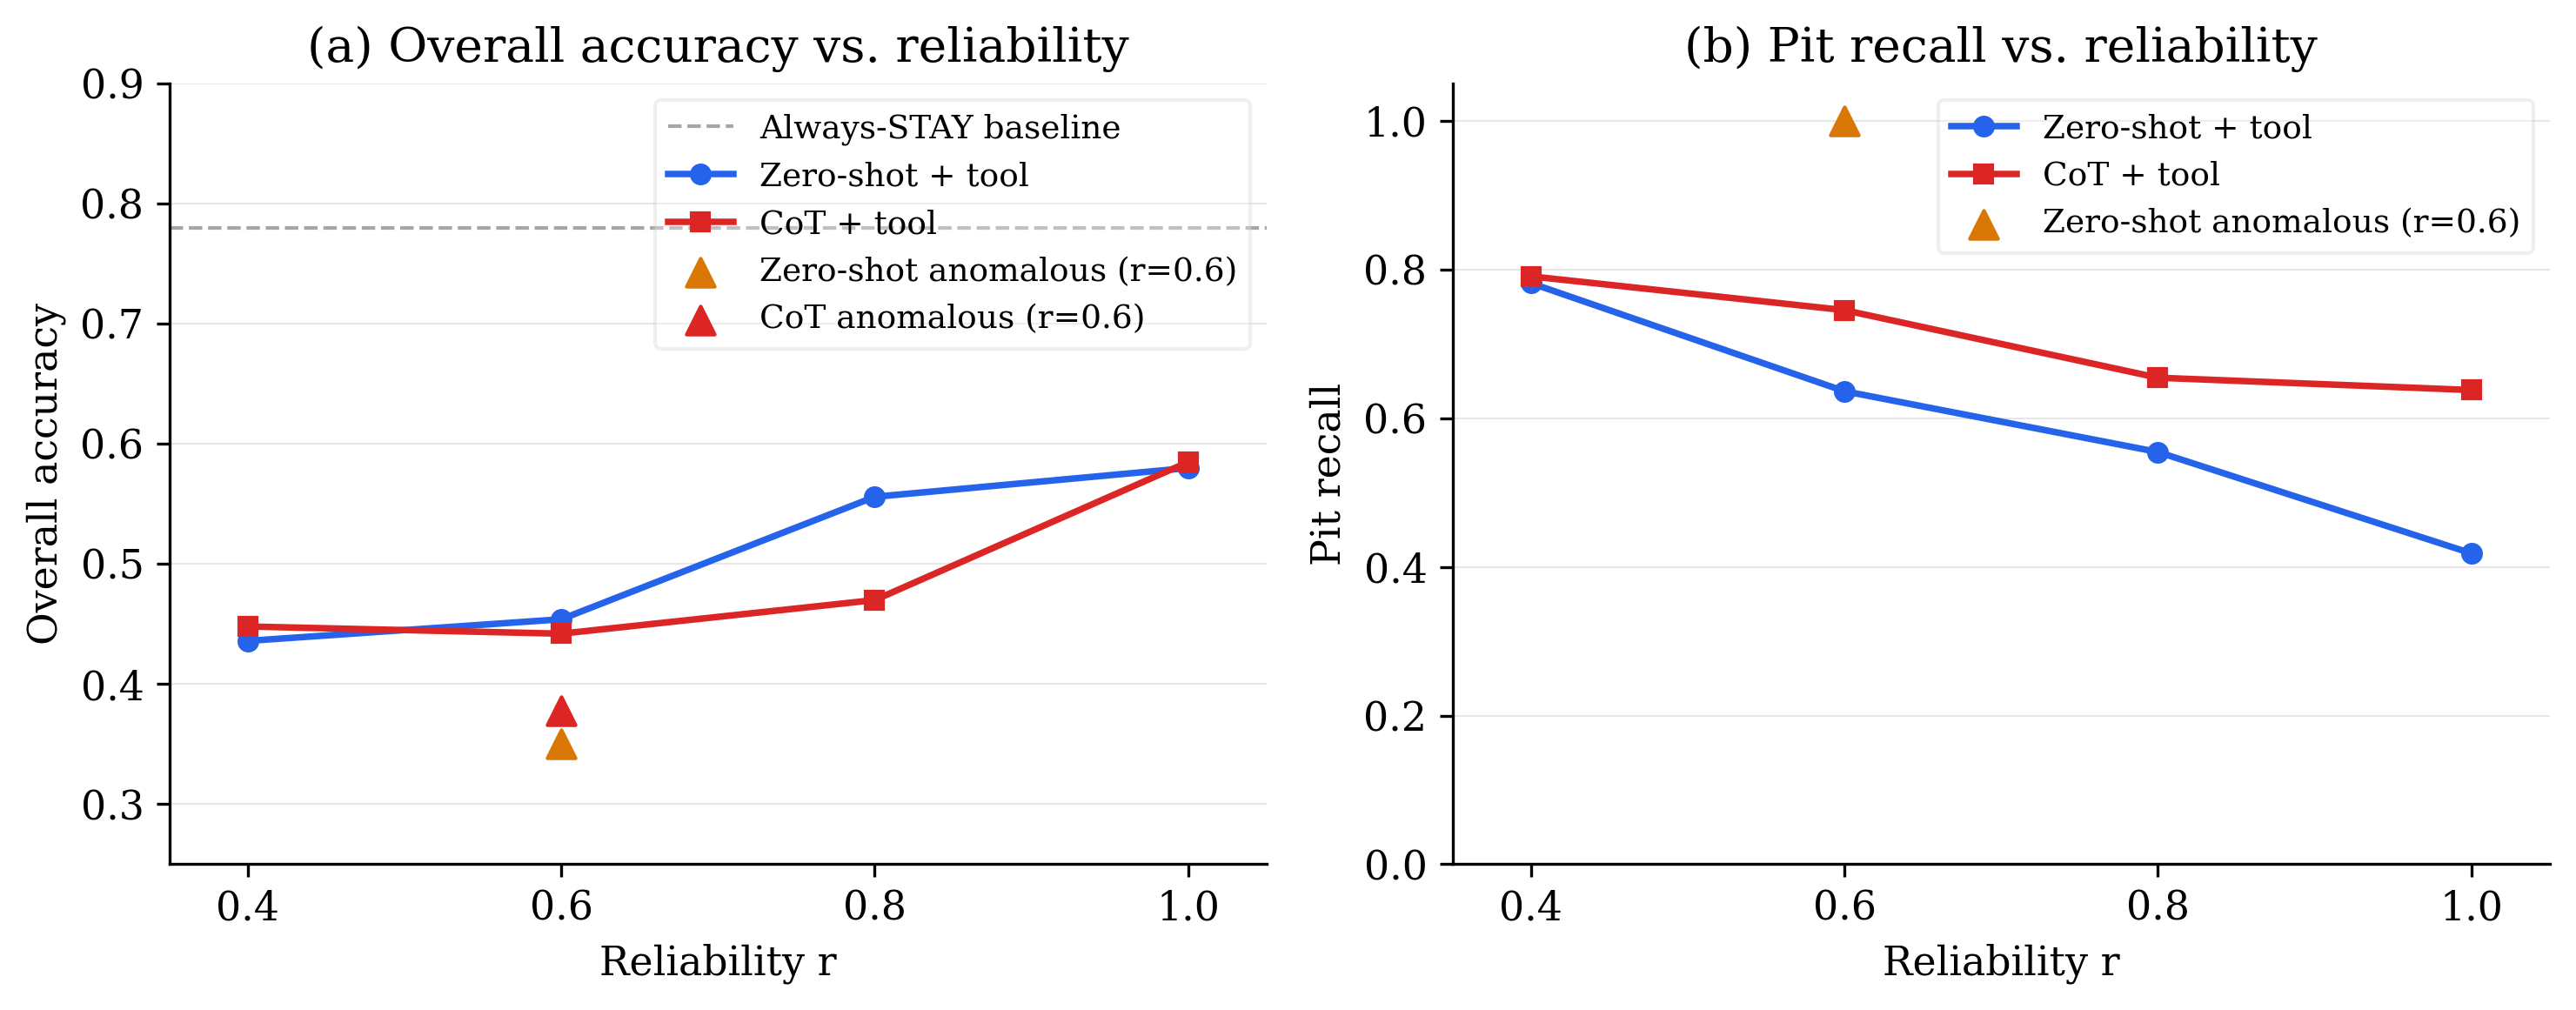
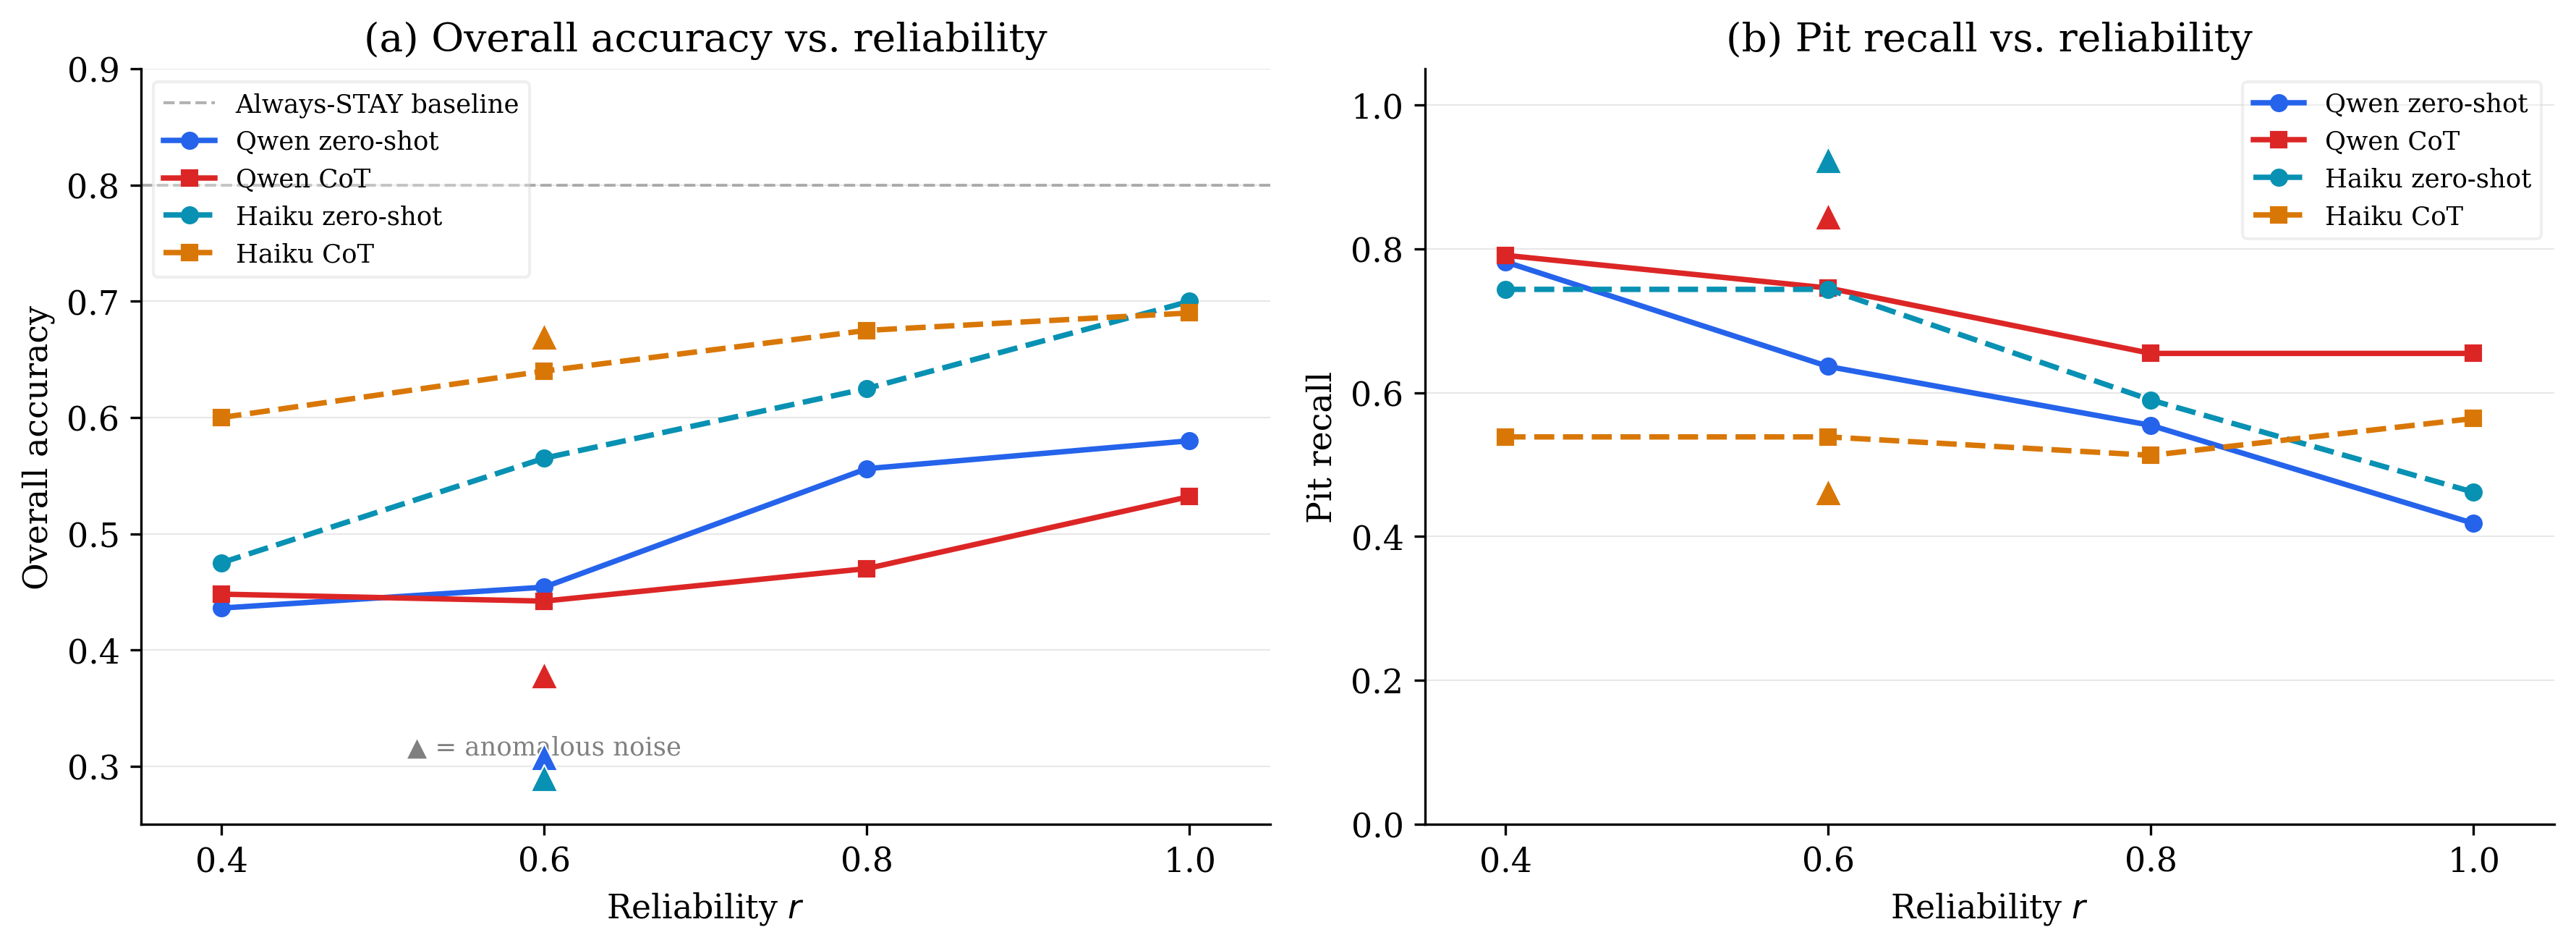
complete experiments: all results, ablation, faithfulness, haiku eval

diff --git a/paper/plot_results.py b/paper/plot_results.py
@@ -2,6 +2,7 @@ import json
 import matplotlib.pyplot as plt
 import matplotlib.patches as mpatches
 import numpy as np
+from pathlib import Path
 
 plt.rcParams.update({
     'font.family': 'serif',
@@ -14,97 +15,233 @@ plt.rcParams.update({
 
 r_levels = [0.4, 0.6, 0.8, 1.0]
 
-# Load results
+# ── Data loading ──────────────────────────────────────────────
+
 def load(path):
     with open(path) as f:
         rows = [json.loads(l) for l in f]
     acc = sum(r['correct'] for r in rows) / len(rows)
     pit = [r for r in rows if r['label'] == 1]
     stay = [r for r in rows if r['label'] == 0]
-    pit_acc = sum(r['correct'] for r in pit) / len(pit) if pit else 0
+    pred_pit = [r for r in rows if r['pred'] == 1]
+    precision = sum(r['correct'] for r in pred_pit) / len(pred_pit) if pred_pit else 0
+    recall = sum(r['correct'] for r in pit) / len(pit) if pit else 0
+    f1 = 2 * precision * recall / (precision + recall) if (precision + recall) > 0 else 0
     stay_acc = sum(r['correct'] for r in stay) / len(stay) if stay else 0
-    return {'overall': acc, 'pit': pit_acc, 'stay': stay_acc, 'n': len(rows)}
+    return {'overall': acc, 'pit': recall, 'stay': stay_acc, 'f1': f1,
+            'precision': precision, 'n': len(rows)}
 
-zeroshot = {
-    1.0: load('results/zeroshot_plausible_r1.0.jsonl'),
-    0.8: load('results/zeroshot_plausible_r0.8.jsonl'),
-    0.6: load('results/zeroshot_plausible_r0.6.jsonl'),
-    0.4: load('results/zeroshot_plausible_r0.4.jsonl'),
+def load_safe(path):
+    try:
+        return load(path)
+    except:
+        return None
+
+# Qwen results
+qwen_zs = {r: load_safe(f'results/zeroshot_plausible_r{r}.jsonl') for r in r_levels}
+qwen_cot = {r: load_safe(f'results/cot_plausible_r{r}.jsonl') for r in r_levels}
+qwen_zs_anom = load_safe('results/zeroshot_anomalous_r0.6.jsonl')
+qwen_cot_anom = load_safe('results/cot_anomalous_r0.6.jsonl')
+
+# Haiku results
+haiku_zs = {r: load_safe(f'results/haiku_zero_shot_plausible_r{r}.jsonl') for r in r_levels}
+haiku_cot = {r: load_safe(f'results/haiku_cot_plausible_r{r}.jsonl') for r in r_levels}
+haiku_zs_anom = load_safe('results/haiku_zeroshot_anomalous_r0.6.jsonl')
+haiku_cot_anom = load_safe('results/haiku_cot_anomalous_r0.6.jsonl')
+
+# Faithfulness
+faithfulness_qwen = {1.0: 0.608, 0.8: 0.511, 0.6: 0.414, 0.4: 0.305}
+
+# Ablation (zero-shot F1 at r=0.6, corrupting one field at a time)
+ablation_fields = ['tyre_age', 'compound', 'position', 'gap_to_leader',
+                   'deg_rate', 'rainfall', 'pit_window']
+ablation_labels = ['Tyre Age', 'Compound', 'Position', 'Gap to\nLeader',
+                   'Deg Rate', 'Rainfall', 'Pit Window\n(tool)']
+
+def load_ablation(field, mode):
+    path = f'results/ablation_{field}_{mode}.jsonl'
+    r = load_safe(path)
+    return r['overall'] if r else None
+
+# ── Figure 1: Degradation curves (2x2) ───────────────────────
+
+fig, axes = plt.subplots(1, 2, figsize=(12, 4.5))
+
+colors = {
+    'qwen_zs':   '#2563EB',   # blue
+    'qwen_cot':  '#DC2626',   # red
+    'haiku_zs':  '#0891B2',   # cyan
+    'haiku_cot': '#D97706',   # amber
 }
 
-# CoT — fill in as results arrive
-cot = {
-    1.0: load('results/cot_r1.0.jsonl'),
-    0.8: load('results/cot_plausible_r0.8.jsonl'),
-    0.6: load('results/cot_plausible_r0.6.jsonl'),
-    0.4: load('results/cot_plausible_r0.4.jsonl'),
-}
-cot_anomalous_r06 = load('results/cot_anomalous_r0.6.jsonl')
-anomalous_r06 = load('results/zeroshot_anomalous_test.jsonl')
-
-fig, axes = plt.subplots(1, 2, figsize=(10, 4))
-
-# ── Plot 1: Overall accuracy ──────────────────────────────────
+# ── Left: Overall accuracy ────────────────────────────────────
 ax = axes[0]
-ax.axhline(0.78, color='gray', linestyle='--', linewidth=1, label='Always-STAY baseline', alpha=0.7)
+ax.axhline(0.80, color='gray', linestyle='--', linewidth=1,
+           label='Always-STAY baseline', alpha=0.6)
 
-zs_overall = [zeroshot[r]['overall'] for r in r_levels]
-ax.plot(r_levels, zs_overall, 'o-', color='#2563EB', linewidth=1.8,
-        markersize=5, label='Zero-shot + tool')
+def plot_line(ax, data, r_levels, color, marker, label, linestyle='-'):
+    vals = [data[r]['overall'] if data[r] else None for r in r_levels]
+    valid_r = [r for r, v in zip(r_levels, vals) if v is not None]
+    valid_v = [v for v in vals if v is not None]
+    ax.plot(valid_r, valid_v, marker=marker, color=color, linewidth=1.8,
+            markersize=5, label=label, linestyle=linestyle)
 
-if len(cot) >= 4:
-    cot_overall = [cot[r]['overall'] for r in r_levels]
-    ax.plot(r_levels, cot_overall, 's-', color='#DC2626', linewidth=1.8,
-            markersize=5, label='CoT + tool')
-else:
-    # plot what we have
-    cot_r = sorted(cot.keys())
-    ax.plot(cot_r, [cot[r]['overall'] for r in cot_r], 's--', color='#DC2626',
-            linewidth=1.5, markersize=5, label='CoT + tool (partial)', alpha=0.6)
+plot_line(ax, qwen_zs,   r_levels, colors['qwen_zs'],   'o', 'Qwen zero-shot')
+plot_line(ax, qwen_cot,  r_levels, colors['qwen_cot'],  's', 'Qwen CoT')
+plot_line(ax, haiku_zs,  r_levels, colors['haiku_zs'],  'o', 'Haiku zero-shot', '--')
+plot_line(ax, haiku_cot, r_levels, colors['haiku_cot'], 's', 'Haiku CoT', '--')
 
-ax.scatter([0.6], [anomalous_r06['overall']], marker='^', color='#D97706',
-           s=60, zorder=5, label='Zero-shot anomalous (r=0.6)')
-ax.scatter([0.6], [cot_anomalous_r06['overall']], marker='^', color='#DC2626',
-           s=60, zorder=5, label='CoT anomalous (r=0.6)')
+# Anomalous points
+if qwen_zs_anom:
+    ax.scatter([0.6], [qwen_zs_anom['overall']], marker='^', color=colors['qwen_zs'],
+               s=80, zorder=5, edgecolors='white', linewidth=0.5)
+if qwen_cot_anom:
+    ax.scatter([0.6], [qwen_cot_anom['overall']], marker='^', color=colors['qwen_cot'],
+               s=80, zorder=5, edgecolors='white', linewidth=0.5)
+if haiku_zs_anom:
+    ax.scatter([0.6], [haiku_zs_anom['overall']], marker='^', color=colors['haiku_zs'],
+               s=80, zorder=5, edgecolors='white', linewidth=0.5)
+if haiku_cot_anom:
+    ax.scatter([0.6], [haiku_cot_anom['overall']], marker='^', color=colors['haiku_cot'],
+               s=80, zorder=5, edgecolors='white', linewidth=0.5)
 
-ax.set_xlabel('Reliability r')
+# Annotation for anomalous
+ax.annotate('▲ = anomalous noise', xy=(0.6, 0.31), fontsize=8.5, color='gray',
+            ha='center')
+
+ax.set_xlabel('Reliability $r$')
 ax.set_ylabel('Overall accuracy')
 ax.set_title('(a) Overall accuracy vs. reliability')
 ax.set_xlim(0.35, 1.05)
 ax.set_ylim(0.25, 0.90)
 ax.set_xticks(r_levels)
-ax.legend(fontsize=9, framealpha=0.3)
+ax.legend(fontsize=8.5, framealpha=0.3, loc='upper left')
 ax.grid(axis='y', alpha=0.3, linewidth=0.5)
 
-# ── Plot 2: Pit recall ────────────────────────────────────────
+# ── Right: Pit recall ─────────────────────────────────────────
 ax = axes[1]
 
-zs_pit = [zeroshot[r]['pit'] for r in r_levels]
-ax.plot(r_levels, zs_pit, 'o-', color='#2563EB', linewidth=1.8,
-        markersize=5, label='Zero-shot + tool')
+def plot_line_pit(ax, data, r_levels, color, marker, label, linestyle='-'):
+    vals = [data[r]['pit'] if data[r] else None for r in r_levels]
+    valid_r = [r for r, v in zip(r_levels, vals) if v is not None]
+    valid_v = [v for v in vals if v is not None]
+    ax.plot(valid_r, valid_v, marker=marker, color=color, linewidth=1.8,
+            markersize=5, label=label, linestyle=linestyle)
 
-if len(cot) >= 4:
-    cot_pit = [cot[r]['pit'] for r in r_levels]
-    ax.plot(r_levels, cot_pit, 's-', color='#DC2626', linewidth=1.8,
-            markersize=5, label='CoT + tool')
-else:
-    cot_r = sorted(cot.keys())
-    ax.plot(cot_r, [cot[r]['pit'] for r in cot_r], 's--', color='#DC2626',
-            linewidth=1.5, markersize=5, label='CoT + tool (partial)', alpha=0.6)
+plot_line_pit(ax, qwen_zs,   r_levels, colors['qwen_zs'],   'o', 'Qwen zero-shot')
+plot_line_pit(ax, qwen_cot,  r_levels, colors['qwen_cot'],  's', 'Qwen CoT')
+plot_line_pit(ax, haiku_zs,  r_levels, colors['haiku_zs'],  'o', 'Haiku zero-shot', '--')
+plot_line_pit(ax, haiku_cot, r_levels, colors['haiku_cot'], 's', 'Haiku CoT', '--')
 
-ax.scatter([0.6], [anomalous_r06['pit']], marker='^', color='#D97706',
-           s=60, zorder=5, label='Zero-shot anomalous (r=0.6)')
+if qwen_zs_anom:
+    ax.scatter([0.6], [qwen_zs_anom['pit']], marker='^', color=colors['qwen_zs'],
+               s=80, zorder=5, edgecolors='white', linewidth=0.5)
+if qwen_cot_anom:
+    ax.scatter([0.6], [qwen_cot_anom['pit']], marker='^', color=colors['qwen_cot'],
+               s=80, zorder=5, edgecolors='white', linewidth=0.5)
+if haiku_zs_anom:
+    ax.scatter([0.6], [haiku_zs_anom['pit']], marker='^', color=colors['haiku_zs'],
+               s=80, zorder=5, edgecolors='white', linewidth=0.5)
+if haiku_cot_anom:
+    ax.scatter([0.6], [haiku_cot_anom['pit']], marker='^', color=colors['haiku_cot'],
+               s=80, zorder=5, edgecolors='white', linewidth=0.5)
 
-ax.set_xlabel('Reliability r')
+ax.set_xlabel('Reliability $r$')
 ax.set_ylabel('Pit recall')
 ax.set_title('(b) Pit recall vs. reliability')
 ax.set_xlim(0.35, 1.05)
 ax.set_ylim(0.0, 1.05)
 ax.set_xticks(r_levels)
-ax.legend(fontsize=9, framealpha=0.3)
+ax.legend(fontsize=8.5, framealpha=0.3, loc='upper right')
 ax.grid(axis='y', alpha=0.3, linewidth=0.5)
 
 plt.tight_layout()
 plt.savefig('paper/degradation_curves.pdf', bbox_inches='tight')
 plt.savefig('paper/degradation_curves.png', bbox_inches='tight', dpi=300)
-print("Saved paper/degradation_curves.pdf and .png")
+print("Saved degradation_curves.pdf/png")
+plt.close()
+
+# ── Figure 2: Faithfulness degradation ───────────────────────
+
+fig, ax = plt.subplots(figsize=(6, 4))
+
+faith_r = [0.4, 0.6, 0.8, 1.0]
+faith_vals = [faithfulness_qwen[r] for r in faith_r]
+
+ax.plot(faith_r, faith_vals, 'o-', color=colors['qwen_cot'], linewidth=1.8,
+        markersize=6, label='Qwen CoT faithfulness')
+ax.axhline(faith_vals[-1], color='gray', linestyle='--', linewidth=0.8, alpha=0.5)
+
+# Annotate specific values
+for r, v in zip(faith_r, faith_vals):
+    ax.annotate(f'{v:.2f}', (r, v), textcoords='offset points',
+                xytext=(0, 8), ha='center', fontsize=9)
+
+ax.set_xlabel('Reliability $r$')
+ax.set_ylabel('Faithfulness score')
+ax.set_title('CoT reasoning faithfulness vs. telemetry reliability')
+ax.set_xlim(0.35, 1.05)
+ax.set_ylim(0.0, 0.80)
+ax.set_xticks(faith_r)
+ax.legend(fontsize=9, framealpha=0.3)
+ax.grid(axis='y', alpha=0.3, linewidth=0.5)
+
+plt.tight_layout()
+plt.savefig('paper/faithfulness_curve.pdf', bbox_inches='tight')
+plt.savefig('paper/faithfulness_curve.png', bbox_inches='tight', dpi=300)
+print("Saved faithfulness_curve.pdf/png")
+plt.close()
+
+# ── Figure 3: Ablation bar chart ─────────────────────────────
+
+fig, axes = plt.subplots(1, 2, figsize=(12, 4.5))
+baseline_zs_overall = 0.454
+baseline_cot_overall = 0.442
+
+zs_vals = [load_ablation(f, 'zero_shot') for f in ablation_fields]
+cot_vals = [load_ablation(f, 'cot') for f in ablation_fields]
+
+x = np.arange(len(ablation_fields))
+width = 0.35
+
+for ax_idx, (ax, vals, baseline, title, color) in enumerate(zip(
+    axes,
+    [zs_vals, cot_vals],
+    [baseline_zs_overall, baseline_cot_overall],
+    ['(a) Zero-shot: accuracy when corrupting one field', '(b) CoT: accuracy when corrupting one field'],
+    [colors['qwen_zs'], colors['qwen_cot']]
+)):
+    plot_vals = [v if v is not None else 0 for v in vals]
+    bars = ax.bar(x, plot_vals, width=0.5, color=color, alpha=0.75, label='Single-field corruption')
+    ax.axhline(baseline, color='gray', linestyle='--', linewidth=1.2,
+               label=f'All-fields baseline ({baseline:.3f})')
+
+    # Color bars that are below baseline red
+    for bar, val in zip(bars, vals):
+        if val is not None and val < baseline:
+            bar.set_color('#DC2626')
+            bar.set_alpha(0.85)
+
+    ax.set_xticks(x)
+    ax.set_xticklabels(ablation_labels, fontsize=9)
+    ax.set_ylabel('Overall accuracy')
+    ax.set_title(title, fontsize=10)
+    ax.set_ylim(0.35, 0.65)
+    ax.legend(fontsize=9, framealpha=0.3)
+    ax.grid(axis='y', alpha=0.3, linewidth=0.5)
+
+    # Annotate values on bars
+    for bar, val in zip(bars, vals):
+        if val is not None and val > 0:
+            ax.text(bar.get_x() + bar.get_width()/2., bar.get_height() + 0.005,
+                    f'{val:.3f}', ha='center', va='bottom', fontsize=8)
+
+plt.suptitle('Per-field ablation: effect of corrupting individual telemetry fields (r=0.6)',
+             fontsize=11, y=1.02)
+plt.tight_layout()
+plt.savefig('paper/ablation_chart.pdf', bbox_inches='tight')
+plt.savefig('paper/ablation_chart.png', bbox_inches='tight', dpi=300)
+print("Saved ablation_chart.pdf/png")
+plt.close()
+
+print("\nAll figures saved to paper/")

diff --git a/mcp_server/server.py b/mcp_server/server.py
@@ -161,20 +161,25 @@ def serve_snapshot(snapshot, r=1.0, noise_type="plausible", ablation_field=None)
     tel = snapshot["telemetry"]
 
     if ablation_field is not None:
-        # only corrupt the specified field, everything else clean
         corrupted = tel.copy()
-        if noise_type == "anomalous":
-            corrupted[ablation_field] = inject_anomalous_noise(
-                tel[ablation_field], _field_type(ablation_field))
+        if ablation_field == "pit_window":
+            # pit_window is computed, not a raw field
+            # corrupt it by passing r=0.4 to get_pit_window (forces wrong recommendation)
+            pit_window = get_pit_window(tel, r=0.4)
         else:
-            corrupted[ablation_field] = inject_noise(
-                tel[ablation_field], _field_type(ablation_field), r)
+            if noise_type == "anomalous":
+                corrupted[ablation_field] = inject_anomalous_noise(
+                    tel[ablation_field], _field_type(ablation_field))
+            else:
+                corrupted[ablation_field] = inject_noise(
+                    tel[ablation_field], _field_type(ablation_field), r)
+            pit_window = get_pit_window(tel, r=1.0)  # clean pit_window when ablating other fields
     elif noise_type == "anomalous" and r < 1.0:
         corrupted = corrupt_telemetry_anomalous(tel)
+        pit_window = get_pit_window(tel, r=0.4)
     else:
         corrupted = corrupt_telemetry(tel, r)
-
-    pit_window = get_pit_window(tel, r if noise_type == "plausible" else 0.4)
+        pit_window = get_pit_window(tel, r)
 
     return {
         "tyre_age":      corrupted["tyre_age"],